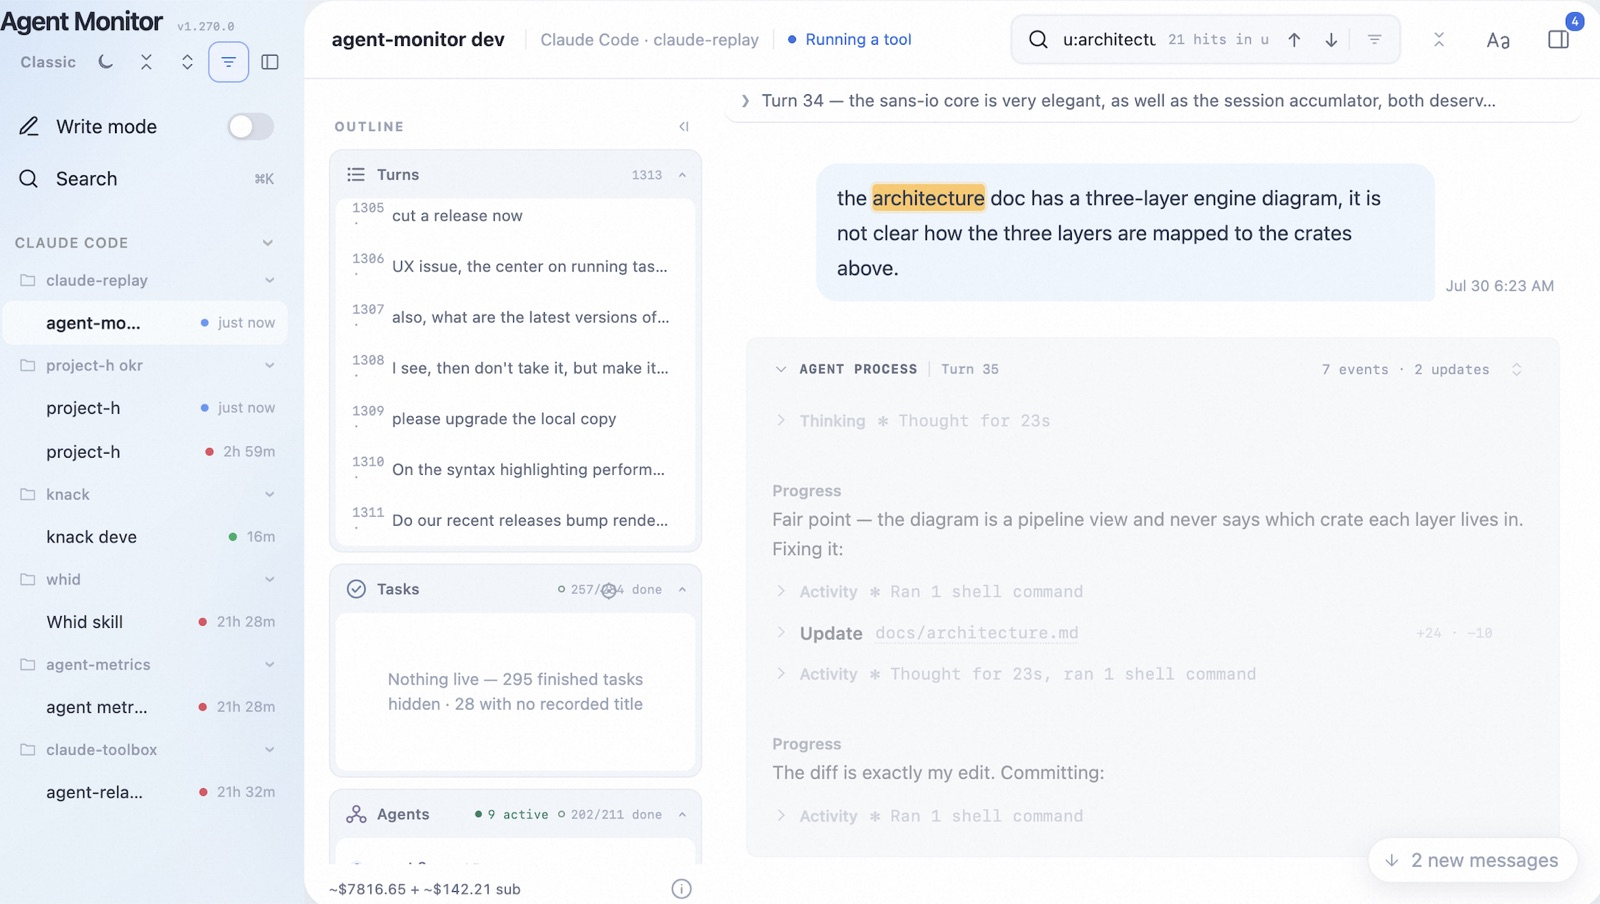
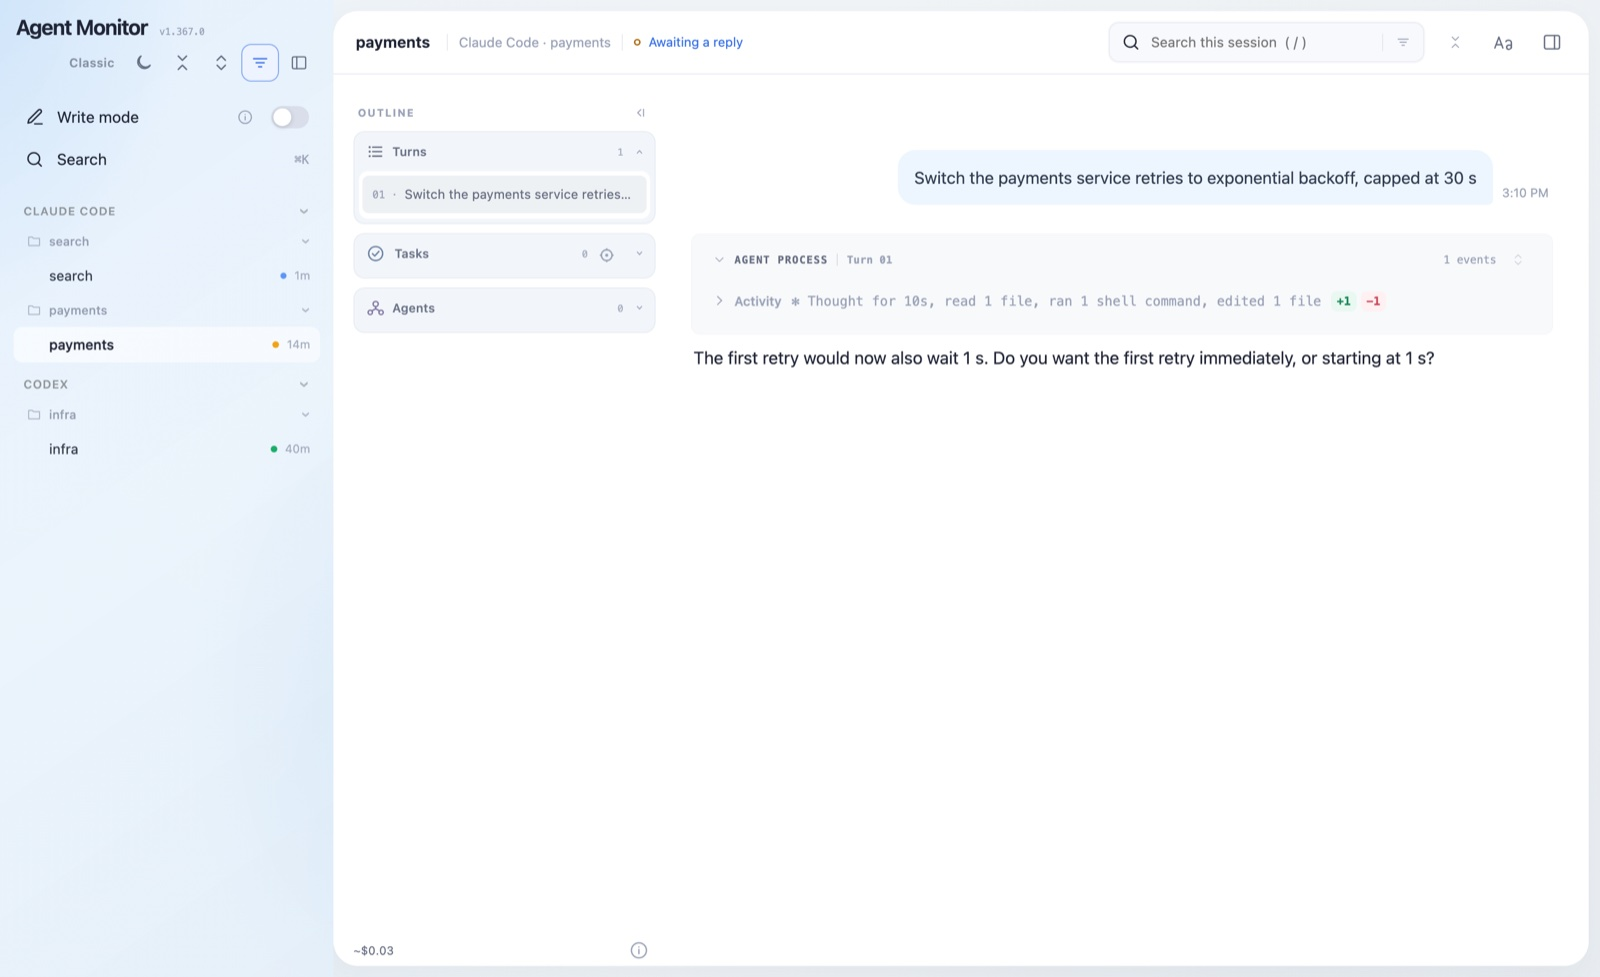
docs: synthetic agent-monitor screenshot; generic model wording for team work

diff --git a/index.html b/index.html
@@ -91,7 +91,7 @@
 
 <h2>Now: agent infrastructure</h2>
 <p class="thesis">Coding agents raised a team’s production rate by an order of magnitude. Its coordination rate didn’t move.</p>
-<p>Project H is a ten-person group that rebuilds its own engineering workflow around coding agents, then turns what works into tools for other teams. Agents (Claude Code and Codex) write and cross-review the code. People own the design (specs, ADRs, design-doc review) and the gates that decide what ships: tests, invariant checks, and evals. I have worked hands-on with coding agents since spring 2026 and full-time since June: about 3,200 agent-hours since July, summed across parallel sessions and measured by my own telemetry.</p>
+<p>Project H is a ten-person group that rebuilds its own engineering workflow around coding agents, then turns what works into tools for other teams. Coding agents write and cross-review the code. People own the design (specs, ADRs, design-doc review) and the gates that decide what ships: tests, invariant checks, and evals. I have worked hands-on with coding agents since spring 2026 and full-time since June: about 3,200 agent-hours since July, summed across parallel sessions and measured by my own telemetry.</p>
 <ul class="bets">
   <li><b>Task state is a document, not a memory.</b> Work outlives a session, a context window, and a machine.</li>
   <li><b>Review moves upstream.</b> Humans read designs and plans, where a change is still cheap. Agents handle the diffs.</li>
@@ -111,7 +111,7 @@
     <li>Observe-only by default: no hooks, bound to loopback. Writing back to a session requires explicit pairing.</li>
     <li>Ships daily and is used across the team every day.</li>
   </ul>
-  <figure><img src="assets/agent-monitor.jpg" alt="agent-monitor showing a long Claude Code session with an outline, task and subagent panels, and cross-session search" loading="lazy"><figcaption>A 1,300-turn Claude Code session in agent-monitor, with turn outline, tasks and subagents.</figcaption></figure>
+  <figure><img src="assets/agent-monitor.jpg" alt="agent-monitor on synthetic demo data: a Claude Code session in the payments project is awaiting a reply, showing the question it asked" loading="lazy"><figcaption>agent-monitor on synthetic demo data: the session marked “Awaiting a reply” shows the question it is waiting on.</figcaption></figure>
 </article>
 
 <article class="project">
@@ -125,7 +125,7 @@
   <div class="callout"><b>Choosing models by measurement.</b> I built an eval harness that runs the product’s own stage code, so scores include prompts, retries and deadlines. Blind judges come from three model families, and any pair of models is compared only by a judge from neither family, which avoids self-preference. Confidence intervals come from bootstrapping within meetings, and a hard spend cap held the full run to about $80 for 1,600 calls. Results:
     <ul>
       <li>Two of four stages moved to a cheaper model at parity.</li>
-      <li>Two stayed on Opus where the harness measured regressions.</li>
+      <li>Two stayed on the stronger frontier model where the harness measured regressions.</li>
       <li>Building it exposed a guard that had been silently discarding 27% of outputs.</li>
     </ul>
   </div>
